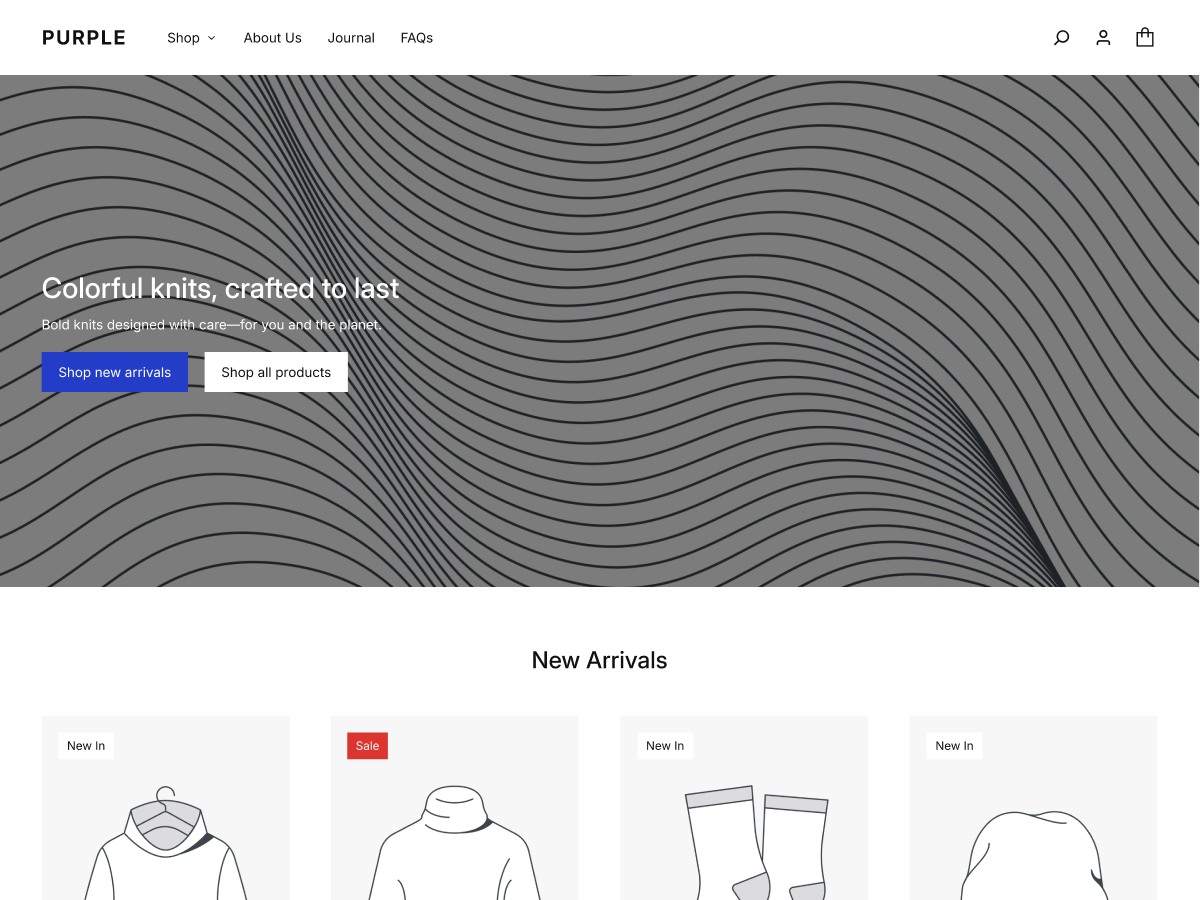
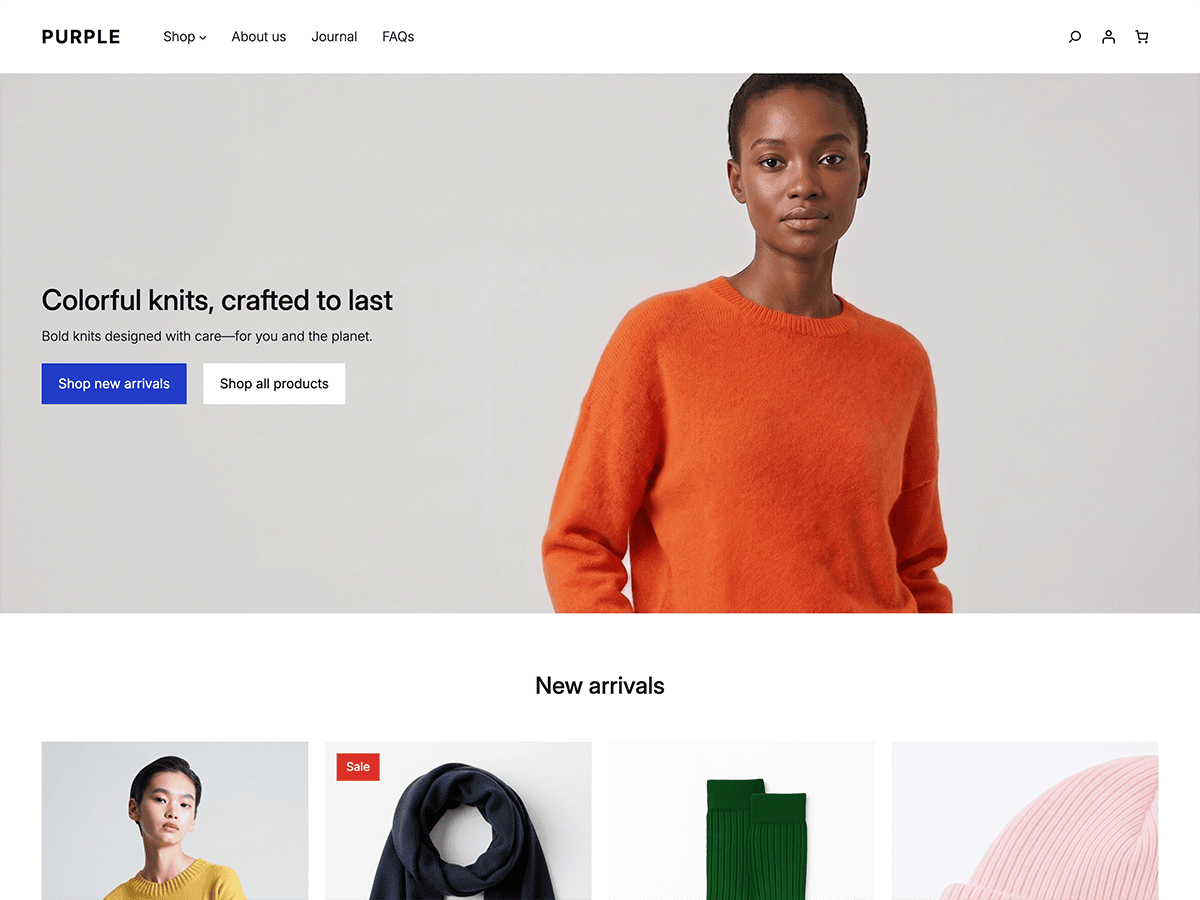
Use purple text domain in orderby template and refresh theme assets.
Update the screenshot, remove unused product illustration assets, align readme image credits, and trim unsupported theme tags.

diff --git a/purple/style.css b/purple/style.css
@@ -11,7 +11,7 @@ Version: 1.0.0
 License: GNU General Public License v2 or later
 License URI: http://www.gnu.org/licenses/gpl-2.0.html
 Text Domain: purple
-Tags: e-commerce, one-column, two-columns, three-columns, four-columns, wide-blocks, block-patterns, custom-colors, custom-logo, custom-menu, block-styles, featured-images, full-site-editing, style-variations, template-editing, theme-options, rtl-language-support, sticky-post, threaded-comments, translation-ready
+Tags: e-commerce, one-column, two-columns, three-columns, four-columns, wide-blocks, block-patterns, block-styles, featured-images, full-site-editing, style-variations, template-editing, rtl-language-support, threaded-comments, translation-ready
 */
 
 /* ==========================================================================

diff --git a/purple/woocommerce/loop/orderby.php b/purple/woocommerce/loop/orderby.php
@@ -16,7 +16,7 @@ $id_suffix = wp_unique_id();
 ?>
 <form class="woocommerce-ordering" method="get">
 	<?php if ( $use_label ) : ?>
-		<label for="woocommerce-orderby-<?php echo esc_attr( $id_suffix ); ?>"><?php echo esc_html__( 'Sort by', 'woocommerce' ); ?></label>
+		<label for="woocommerce-orderby-<?php echo esc_attr( $id_suffix ); ?>"><?php echo esc_html__( 'Sort by', 'purple' ); ?></label>
 	<?php endif; ?>
 	<select
 		name="orderby"
@@ -24,7 +24,7 @@ $id_suffix = wp_unique_id();
 		<?php if ( $use_label ) : ?>
 			id="woocommerce-orderby-<?php echo esc_attr( $id_suffix ); ?>"
 		<?php else : ?>
-			aria-label="<?php esc_attr_e( 'Shop order', 'woocommerce' ); ?>"
+			aria-label="<?php esc_attr_e( 'Shop order', 'purple' ); ?>"
 		<?php endif; ?>
 	>
 		<button type="button" class="orderby-button">
